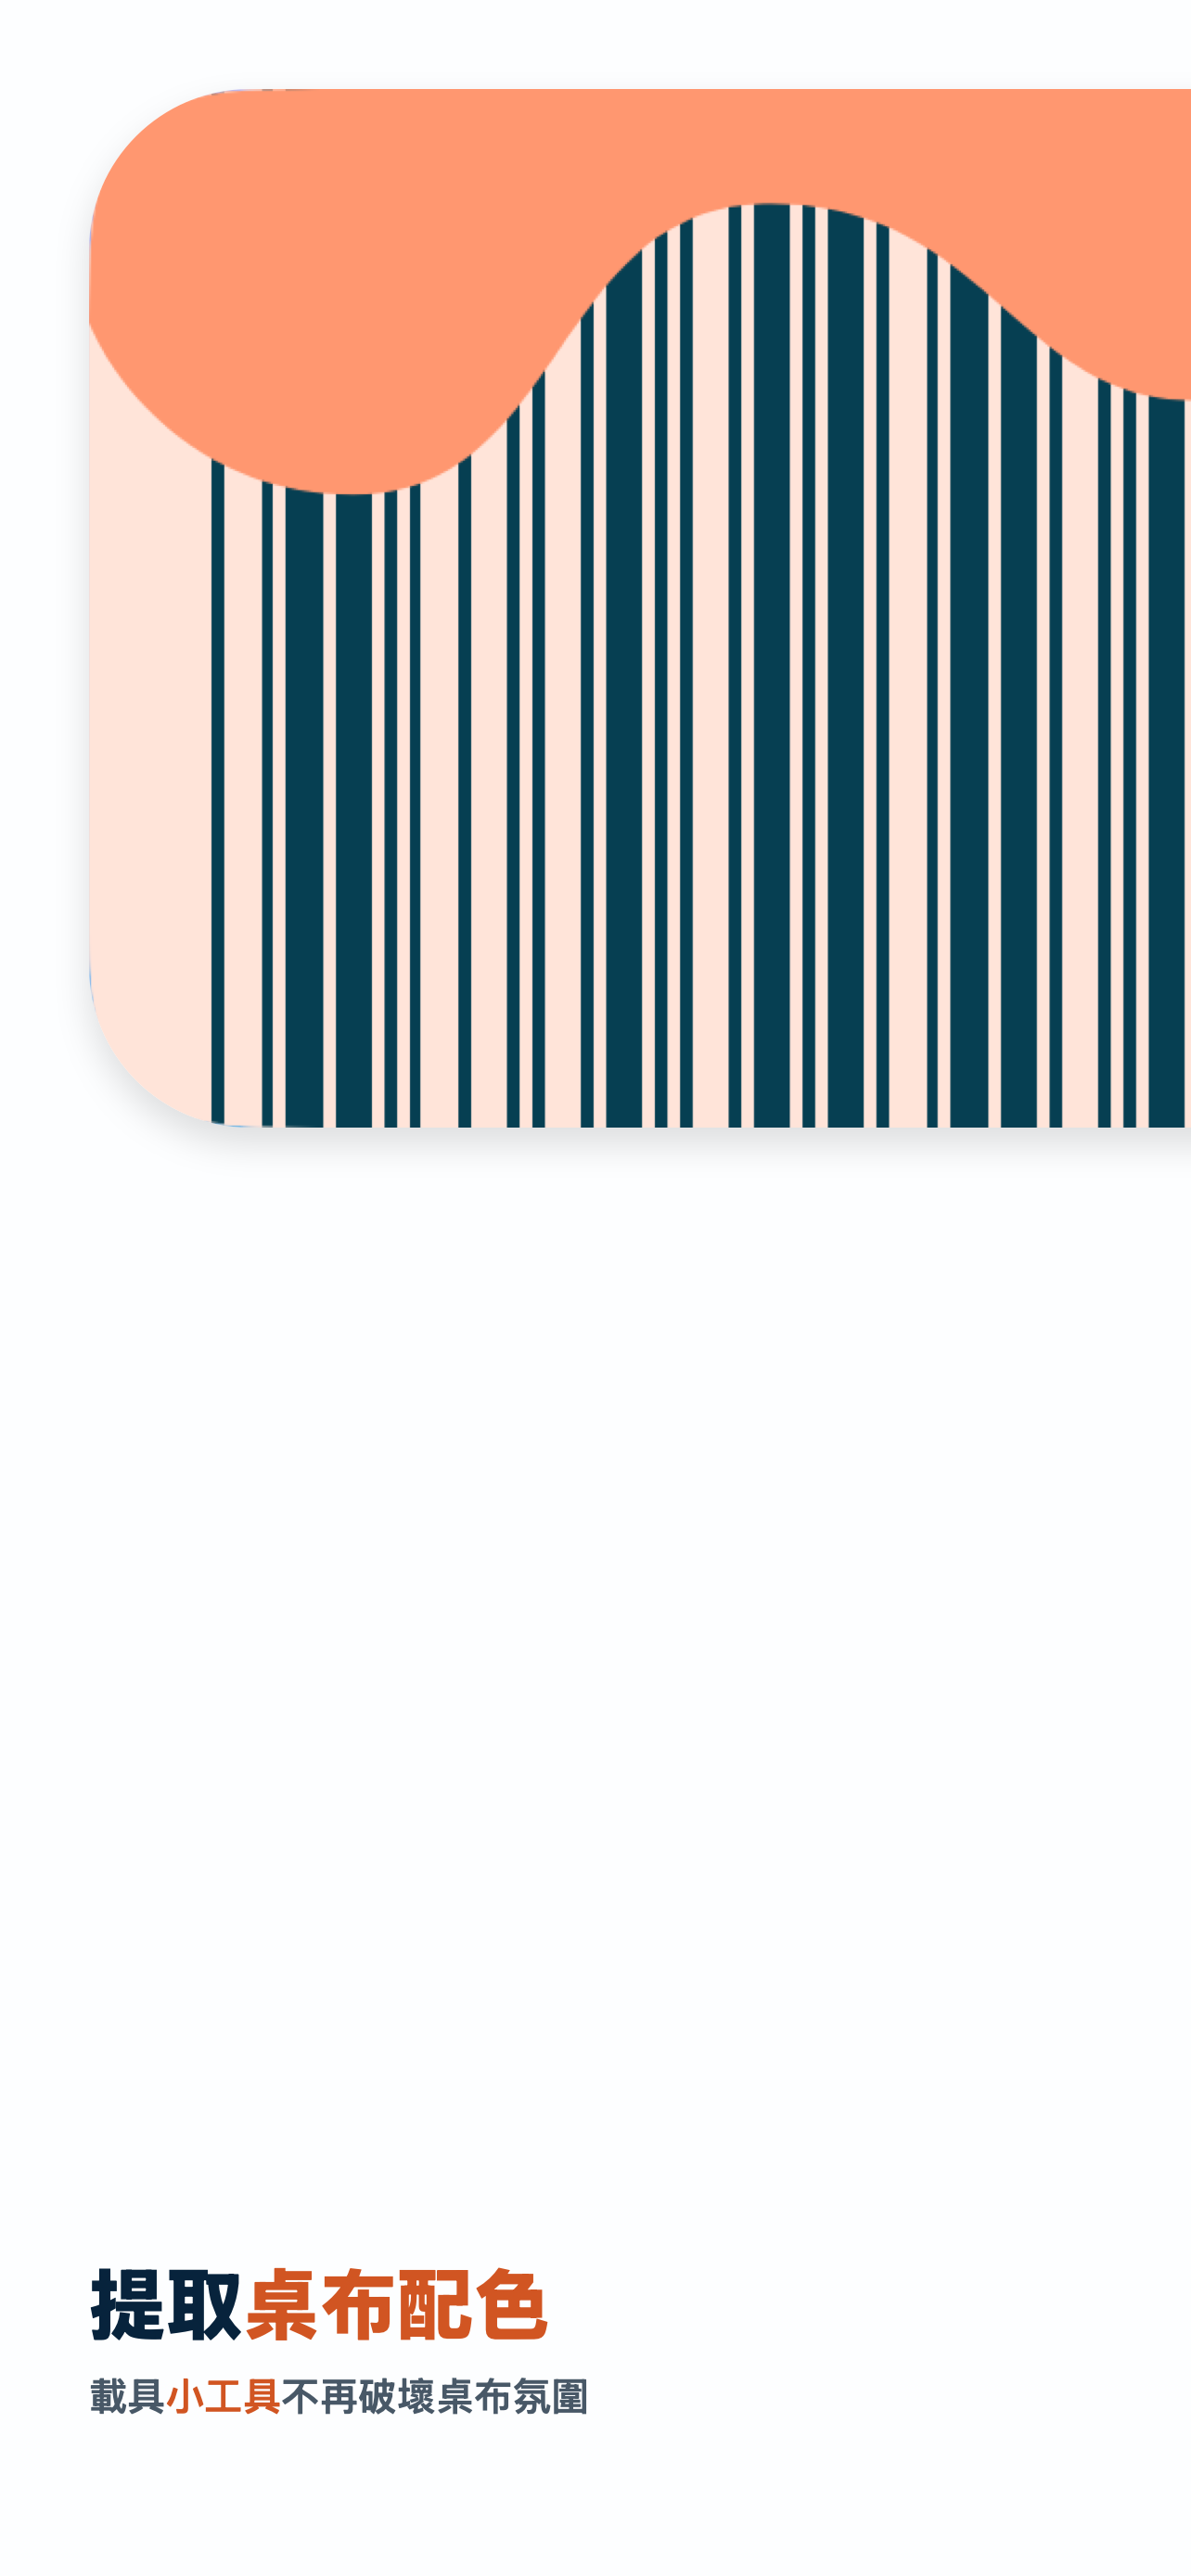
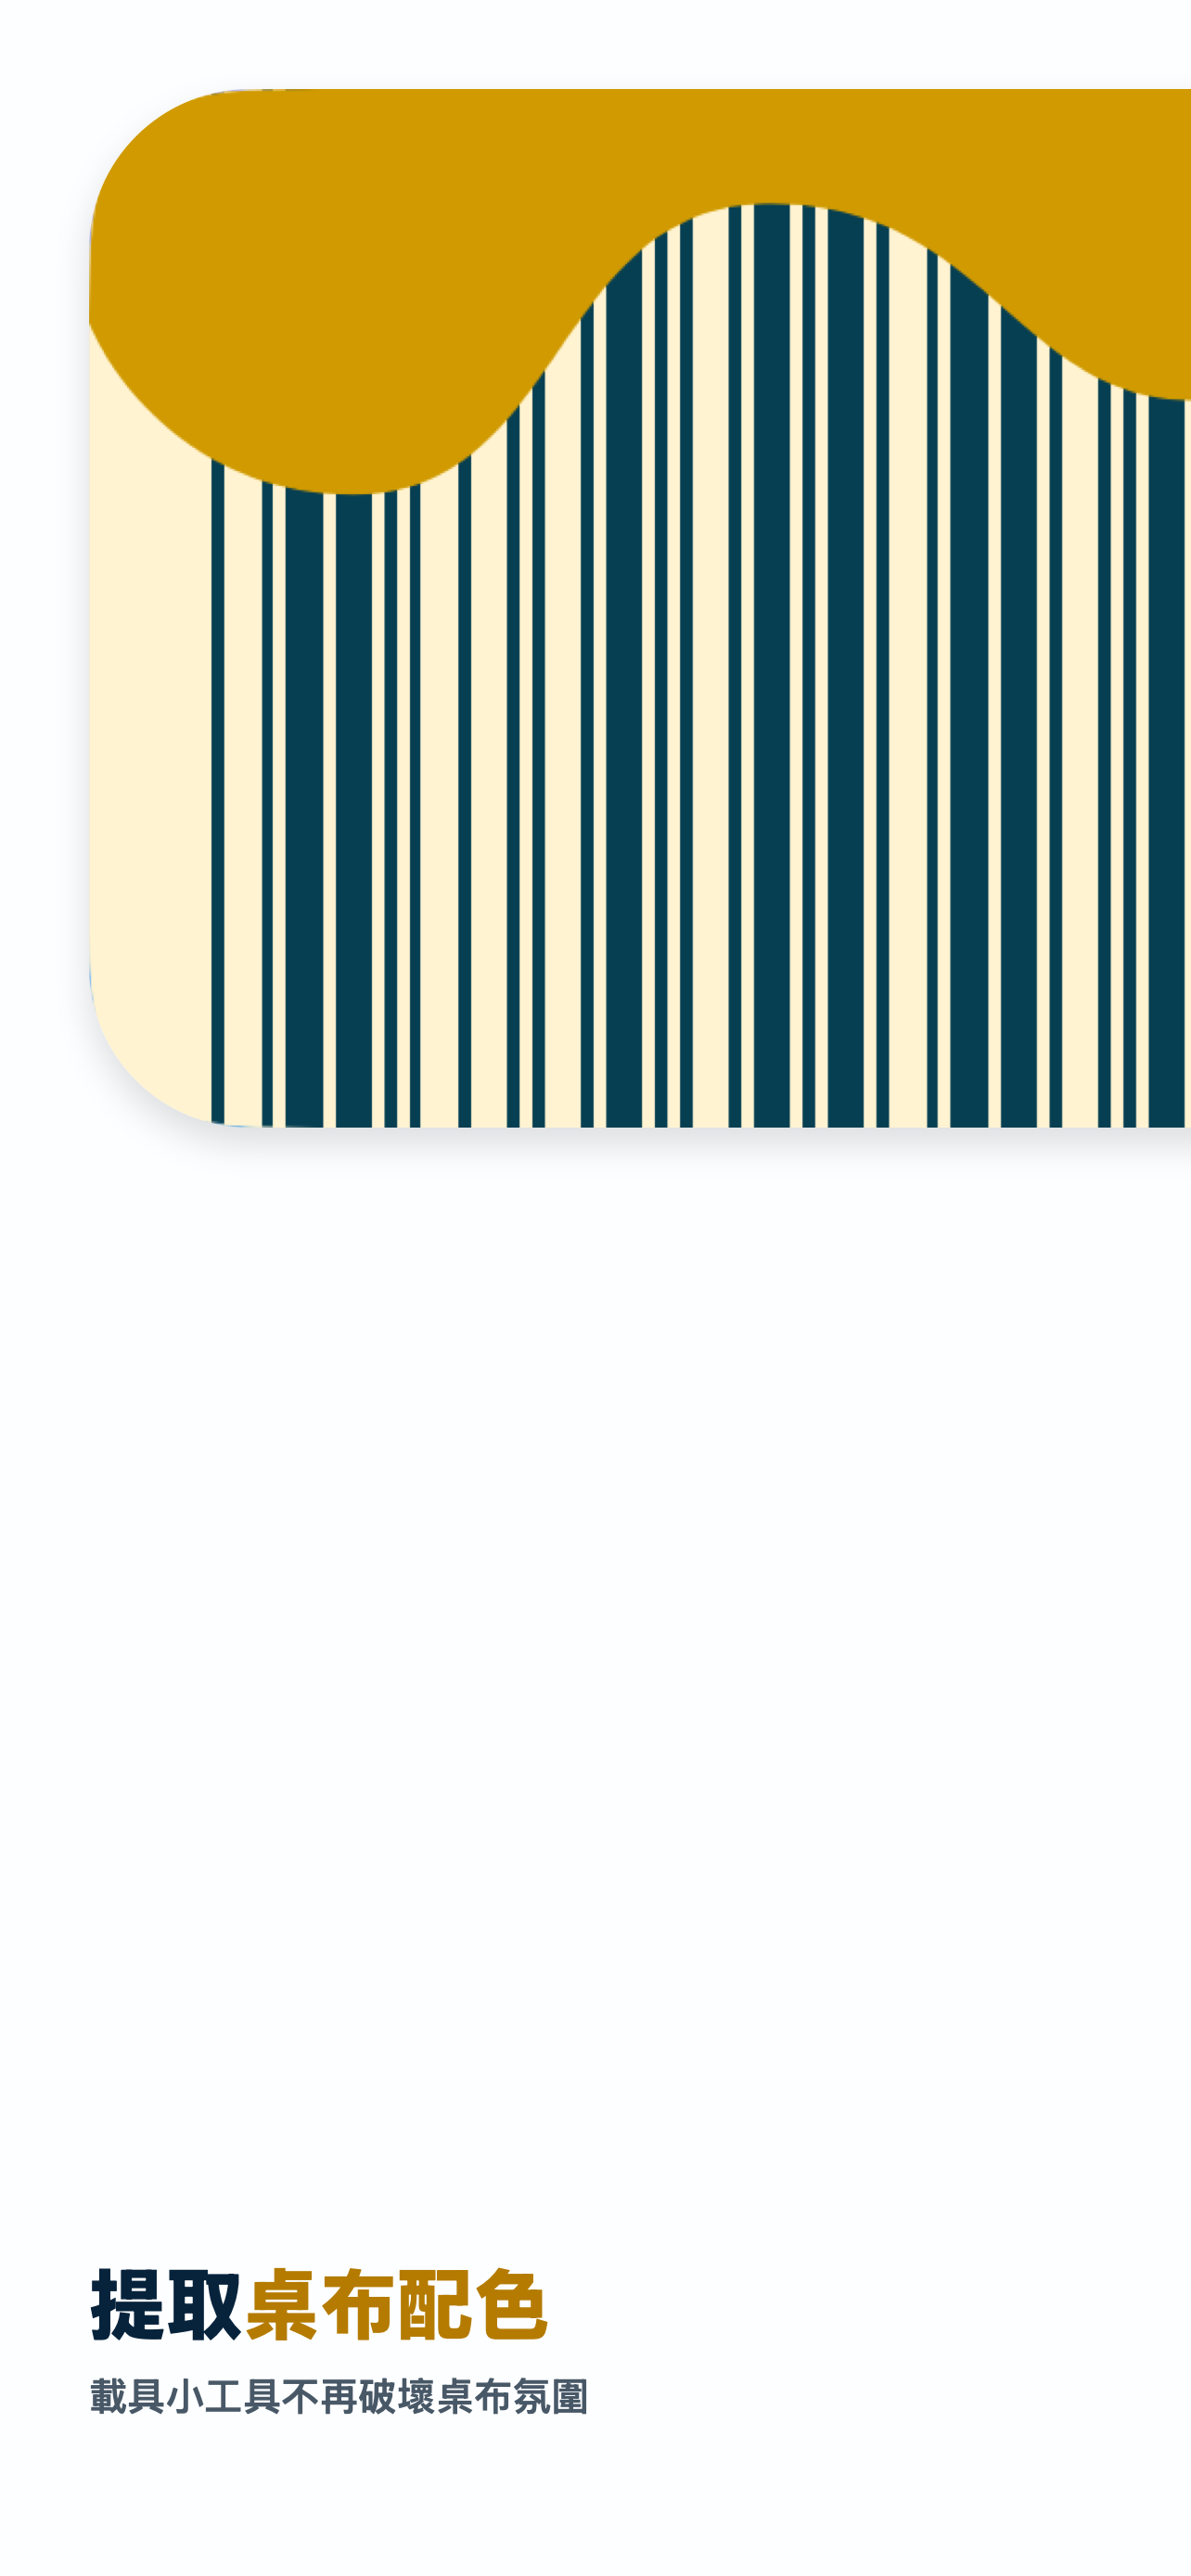
feat: focus screenshot color emphasis

Changed region(s): [[0.0623, 0.031, 1.0, 0.2167], [0.1869, 0.8668, 0.4673, 0.9597]]

diff --git a/scripts/ios-compose-app-store-screenshots.swift b/scripts/ios-compose-app-store-screenshots.swift
@@ -14,7 +14,7 @@ private enum Artwork {
     static let ink = NSColor(calibratedRed: 0.035, green: 0.102, blue: 0.180, alpha: 1)
     static let muted = NSColor(calibratedRed: 0.220, green: 0.275, blue: 0.330, alpha: 1)
     static let logoBlueText = NSColor(calibratedRed: 0.020, green: 0.470, blue: 0.650, alpha: 1)
-    static let logoOrangeText = NSColor(calibratedRed: 0.770, green: 0.250, blue: 0.105, alpha: 1)
+    static let logoYellowText = NSColor(calibratedRed: 0.640, green: 0.410, blue: 0.000, alpha: 1)
 }
 
 private struct Arguments {
@@ -167,16 +167,16 @@ private struct Composer {
                 subtitle: "載具小工具不再破壞桌布氛圍",
                 titleTop: CGFloat(2_430),
                 subtitleTop: CGFloat(2_556),
-                titleAccents: [("桌布配色", Artwork.logoOrangeText)],
-                subtitleAccents: [("小工具", Artwork.logoOrangeText)]
+                titleAccents: [("桌布配色", Artwork.logoYellowText)],
+                subtitleAccents: []
             ),
             (
-                title: "選擇裝飾",
+                title: "選擇額外裝飾",
                 subtitle: "別擔心，貓貓會保留安全可掃範圍",
                 titleTop: CGFloat(1_260),
                 subtitleTop: CGFloat(1_380),
-                titleAccents: [("裝飾", Artwork.logoOrangeText)],
-                subtitleAccents: [("貓貓", Artwork.logoBlueText)]
+                titleAccents: [("額外裝飾", Artwork.logoYellowText)],
+                subtitleAccents: [("安全可掃", Artwork.logoBlueText)]
             ),
             (
                 title: "好看，也好掃",
@@ -184,10 +184,10 @@ private struct Composer {
                 titleTop: CGFloat(96),
                 subtitleTop: CGFloat(222),
                 titleAccents: [
-                    ("好看", Artwork.logoOrangeText),
+                    ("好看", Artwork.logoYellowText),
                     ("好掃", Artwork.logoBlueText),
                 ],
-                subtitleAccents: [("反射率規範", Artwork.logoBlueText)]
+                subtitleAccents: [("商用反射率規範", Artwork.logoBlueText)]
             ),
         ]
 

diff --git a/design-qa.md b/design-qa.md
@@ -1,26 +1,27 @@
 # App Store Screenshot Design QA
 
-- Source visual truth: `/tmp/colorinvo-v2-panorama.png`, revised by the latest user brief to swap the two widgets, center each decoration on a panel seam, use logo-orange and logo-blue scan-safe palettes, and distribute copy bottom / middle / top.
+- Source visual truth: `/tmp/colorinvo-orange-panorama.png`, revised by the latest user brief to replace the orange paint stripe with dark yellow and restrict color emphasis to named benefit phrases.
 - Implementation screenshots: `/Users/hsi/Projects/Apps/Mobile/ColorInvo/assets/screenshots/colorinvo-iphone-6-5-01-wallpaper-palette.png`, `/Users/hsi/Projects/Apps/Mobile/ColorInvo/assets/screenshots/colorinvo-iphone-6-5-02-decorations.png`, `/Users/hsi/Projects/Apps/Mobile/ColorInvo/assets/screenshots/colorinvo-iphone-6-5-03-scanner-widget.png`
 - Viewport: three adjacent 1284 × 2778 App Store screenshots; combined panorama 3852 × 2778.
-- State: Traditional Chinese showcase data, light appearance, orange paint widget and blue cat widget.
-- Full-view comparison evidence: `/tmp/colorinvo-v2-v3-comparison.png`.
-- Focused comparison evidence: `/tmp/colorinvo-v3-standalone-contact.png` verifies the three isolated-card crops and the center-card composition.
+- State: Traditional Chinese showcase data, light appearance, dark-yellow paint widget and blue cat widget.
+- Full-view comparison evidence: `/tmp/colorinvo-orange-yellow-comparison.png`.
+- Focused comparison evidence: `/tmp/colorinvo-yellow-standalone-contact.png` verifies the three isolated-card crops, copy emphasis, and the center-card composition.
 
 ## Findings
 
 - No actionable P0, P1, or P2 differences remain.
-- Fonts and typography: headlines increased from 72 px bold to 88 px black; supporting text increased from 36 px medium to 44 px semibold. Selected phrases use darker accessible derivatives of the logo orange and blue, while the remaining text keeps the established navy hierarchy. All copy remains on one line without truncation.
-- Spacing and layout rhythm: the orange paint widget begins 96 px from the panorama's top-left and the blue cat widget ends 96 px from the bottom-right. Both retain their native 329:155 ratio. Their frames are centered on the first and second panel seams respectively. Card 1 copy sits at the bottom, card 2 copy occupies the space between widgets, and card 3 copy sits at the top.
-- Colors and visual tokens: the decoration uses the exact app-icon orange `#FF9770`; the blue widget uses a scanner-safe tint derived from the app-icon blue `#70D6FF`. Under the app's red-light reflectance model, the blue pair has background/bar reflectance 0.749/0.000 and symbol contrast 0.749; the orange pair has 1.000/0.024 and symbol contrast 0.976. Both exceed the 0.70 commercial guidance threshold.
+- Fonts and typography: headlines remain 88 px black and supporting text remains 44 px semibold. Color emphasis is limited to 桌布配色、額外裝飾、安全可掃、商用反射率規範、好看 and 好掃. All other words use the established navy hierarchy, and all copy remains on one line without truncation.
+- Spacing and layout rhythm: the dark-yellow paint widget begins 96 px from the panorama's top-left and the blue cat widget ends 96 px from the bottom-right. Both retain their native 329:155 ratio. Their frames are centered on the first and second panel seams respectively. Card 1 copy sits at the bottom, card 2 copy occupies the space between widgets, and card 3 copy sits at the top.
+- Colors and visual tokens: the paint stripe uses a dark-yellow derivative `#D09A00` of the app-icon yellow; its scanner-safe background is `#FFF3D1`. The blue widget retains its tint derived from app-icon blue `#70D6FF`. Under the app's red-light reflectance model, the blue pair has background/bar reflectance 0.749/0.000 and symbol contrast 0.749; the yellow pair has 1.000/0.024 and symbol contrast 0.976. Both exceed the 0.70 commercial guidance threshold.
 - Image quality and asset fidelity: both elements are real widget captures, not reconstructed illustrations. Their native masks, barcode geometry, cat damage treatment, paint shape, and shadows remain sharp at 1284 × 2778 output.
-- Copy and content: the three supplied messages appear verbatim and are positioned in the requested bottom / middle / top sequence.
+- Copy and content: card 2 now reads 選擇額外裝飾. The requested benefit phrases are highlighted exactly, and the three messages retain the bottom / middle / top sequence.
 
 ## Comparison History
 
 1. The previous two-widget version used one blue palette, placed the cat upper-left and paint lower-right, and aligned all copy at the top.
 2. The revised implementation swaps the widgets, introduces brand-derived scan-safe orange and blue states, centers each widget on its seam, and redistributes the copy to use the negative space.
-3. The full panorama and isolated-card comparison found no remaining P0, P1, or P2 issues.
+3. The latest refinement replaced the orange paint state with dark yellow, changed 裝飾 to 額外裝飾, and removed emphasis from 小工具 and 貓貓 in favor of the requested benefit phrases.
+4. The full panorama and isolated-card comparison found no remaining P0, P1, or P2 issues.
 
 ## Open Questions
 
@@ -31,9 +32,9 @@
 - [x] Swap paint and cat widget positions.
 - [x] Center both widget frames on their respective seams.
 - [x] Preserve the native widget aspect ratio and shared 96 px outer inset.
-- [x] Use distinct orange and blue brand palettes without violating commercial reflectance guidance.
+- [x] Use distinct dark-yellow and blue brand palettes without violating commercial reflectance guidance.
 - [x] Place card copy at the bottom, between the widgets, and at the top.
-- [x] Increase font size and weight and add selective brand-color emphasis.
+- [x] Restrict brand-color emphasis to the six requested benefit phrases.
 - [x] Verify all three 1284 × 2778 outputs and standalone crops.
 
 ## Follow-up Polish